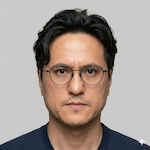
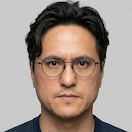
updates contents to align to new title Practical AI tools for Classroom Teaching

diff --git a/README.md b/README.md
@@ -2,7 +2,7 @@
 
 ![](./images/banner.jpg)
 
-This page is aimed to provide educators with practical GenAI skills that can be applied in their teaching activities. It covers a range of topics, including useful keyboard shortcuts, popular GenAI tools, effective prompting techniques, and managing prompts and AI responses. By mastering these skills, educators can enhance their teaching methods and provide a more engaging learning experience for their students.
+This page is aimed to provide educators with practical GenAI skills that can be applied in their teaching activities. It covers a range of topics, including useful keyboard shortcuts, popular GenAI tools, effective prompting techniques, and managing prompts and AI responses, building custome chatbot and creating agents. By mastering these skills, educators can enhance their teaching methods and provide a more engaging learning experience for their students.
 
 # Hello! My name is Sunny 🌞
 
@@ -11,7 +11,7 @@ This page is aimed to provide educators with practical GenAI skills that can be 
 [Sunny Ng](https://training.imagenation.com.hk/#sunny-ng)  
 **Founder / Master Trainer** at [Image Nation](https://training.imagenation.com.hk)  
 **Part-time Lecturer** at HKU Business School, HKU School of Chinese, HKUSPACE, EdUHK  
-**Email**: sunny.ng@imagenation.com.hk or sunnyng@eduhk.hk
+**Email**: sunny.ng@imagenation.com.hk
 
 # Useful Keyboard Shortcuts
 
@@ -33,13 +33,13 @@ It is more effective to keep multiple browser tabs open for different tools.
 To open the following AI tools in a **NEW** browser tab, hold `CTRL` (`CMD` on Mac) when clicking the links below.
 
 - [Gemini](https://gemini.google.com) - Google Gemini is a powerful, multimodal large language model developed by Google that can understand and process a wide range of information, including text, images, canvas (apps),audio, and video.
-- [Perplexity](https://www.perplexity.ai) - AI search engine that provides concise answers with sources.
 - [Microsoft Copilot](https://copilot.microsoft.com/) - Free Microsoft AI assisant.
-- [Grok](https://grok.com) - AI tool for generating text and code.
-- [Poe](https://poe.com) - Platform to access multiple AI models in one place.
 - [Qwen](https://chat.qwen.ai) - Conversational AI for various tasks
 - [Doubao](https://www.doubao.com) - Conversational AI for various tasks
 - [DeepSeek](https://www.deepseek.com) - Conversational AI for various tasks (**NOT** a multi-modal tool)
+- [Perplexity](https://www.perplexity.ai) - AI search engine that provides concise answers with sources.
+- [Grok](https://grok.com) - AI tool for generating text and code.
+- [Poe](https://poe.com) - Platform to access multiple AI models in one place.
 - [VisualGPT](https://visualgpt.io) - Photo Editor with AI / Image Generation
 - [LMArena](https://lmarena.ai) - Compare and explore different large language models.
 - [Notion AI](https://www.notion.com) - Note-taking and productivity app with AI features.
@@ -60,10 +60,16 @@ To open the following AI tools in a **NEW** browser tab, hold `CTRL` (`CMD` on M
 - [Tripoai](https://studio.tripo3d.ai) - AI-powered 3D content creation platform.
 - [ideogram](https://ideogram.ai/) - AI-powered image generation platform.
 
+# World Top GenAI Tools
+
+[World Top GenAI Tools](https://a16z.com/100-gen-ai-apps-6/)
+![](https://d1lamhf6l6yk6d.cloudfront.net/uploads/2026/03/Top-Gen-AI-Web-Top-50-List-v2.png)
+![](https://d1lamhf6l6yk6d.cloudfront.net/uploads/2026/03/Top-Gen-AI-Apps-Top-50-List.jpg)
+
 # Other Tech Tools for Teaching & Learning
 
 - [Google Sites](https://sites.google.com/) - Free website builder by Google, great for creating a class website or portfolio.
-- [DILLINGER](https://dillinger.io/) - Online Markdown playground/editor.
+- [Markdown Playground](https://training.imagenation.com.hk/markdown/index.html) - Online Markdown playground/editor.
 - [Pandoc](https://pandoc.org/index.html) - Universal document converter that can convert between various formats, including Markdown, HTML, PDF, and more.
 
 # Mastering RICE FACT Effective Prompting
@@ -246,7 +252,11 @@ generate 5 fill in the blank questions about cloud computing fundamental. specif
 ```
 
 ```
-create a case study for non-IT students to discuss the pros and cons of cloud computing. provide some angles for students to start arguing
+Create a Word document so that I can download and further edit.
+```
+
+```
+create a case study for non-IT students to discuss the pros and cons of cloud computing. provide some angles for students to start the discussion.
 ```
 
 ```
@@ -368,6 +378,24 @@ Set the scene in home studio
 
 You can also feed image as style reference and instruct Gemini to use it as target style to edit your own image in the same style.
 
+# Turn Texts into Visuals
+
+![](https://www.napkin.ai/assets/og-image-v5.png?v=2)
+
+[Napkin AI](https://napkin.ai/) is a powerful tool that allows you to turn your text-based ideas into compelling visual stories. It provides a user-friendly interface where you can input your text and generate visuals that enhance your storytelling. Whether you're creating a presentation, a report, or any other type of content, Napkin AI can help you make it more engaging and visually appealing.
+
+1.  Paste the following prompt to any AI assistant to seek for an answer on secondary math teacher assessment cycle.
+
+    ```
+    Use bullet points format to show the secondary mathematics assessment cycle for teacher.
+    ```
+
+2.  Copy the AI response and paste it to Napkin AI. You can then choose the most suitable visual template to turn the text into visuals.
+3.  You can further customize the visuals by changing the colors, fonts, and layout to better suit your needs.
+4.  Once you're satisfied with the visuals, you can download them and use them in your presentations, reports, or any other materials to enhance your communication and engagement with your audience.
+
+![](./images/napkin-demo.png)
+
 # Speech Synthesis
 
 ![](https://www.narakeet.com/assets/howto/20230403-tts-announcements-poster-x304.png)
@@ -393,7 +421,7 @@ Gemini's canvas feature allows you to create interactive content such as quizzes
 
 **Vibe Coding**
 
-Canvas output form are actually self-contained mini web applications, which means you can easily share them with your students by providing a link. This makes it convenient for remote learning or for students to access the content on their own devices. If you can handle programming, you can even customize the canvas output further to suit your specific teaching needs. Of course vibe coding is mature enough and will offer you more flexibility and possibilities to create more advanced interactive content.
+Canvas output format is actually self-contained mini web applications, which means you can easily share them with your students by providing a link. This makes it convenient for remote learning or for students to access the content on their own devices. If you can handle programming, you can even customize the canvas output further to suit your specific teaching needs. Of course vibe coding is mature enough and will offer you more flexibility and possibilities to create more advanced interactive content.
 
 ---
 
@@ -474,12 +502,44 @@ Use the above prompt in Gemini to create your own canvas or click the link below
 
 ---
 
+# Custom Chatbot
+
+Gemini Gems is a platform that allows you to create custom AI assistants tailored to your specific needs. With Gemini Gems, you can design and build your own AI assistant by defining its capabilities, personality, and interactions. This tool is particularly useful for educators, businesses, and individuals who want to create a personalized AI assistant that can help with tasks such as answering questions, providing recommendations, or assisting with specific workflows.
+
+![](https://images.ctfassets.net/lzny33ho1g45/2yvPXm6SrVRaCUby42XATS/16423809586ee068944c34623d7f78fe/gemini-gems-image01.png)
+
+# AI Agents & Agentic AI
+
+AI agents are autonomous software programs that can perform tasks or make decisions on behalf of users. They are designed to interact with their environment, gather information, and take actions based on predefined rules or learned behaviors. AI agents can be used in various applications, such as virtual assistants, customer service bots, and recommendation systems.
+
+Agentic AI refers to multiple AI agents that are designed to interact with their environment, learn from it, and adapt their behavior based on the information they receive. Agentic AI operates independently and makes informed decisions without constant human intervention.
+
+## Gemini Spark
+
+**Gemini Spark** is a platform that allows you to create and manage AI agents. With Gemini Spark, you can design agents that can perform specific tasks, interact with users, and learn from their experiences. This tool is particularly useful for businesses and developers who want to build intelligent systems that can automate processes, provide personalized experiences, or assist with complex decision-making.
+
+![](https://lh3.googleusercontent.com/zdeJtOTXpnfHHqrTU5gmS3z2gfF87KouBdsjTdCK3mLPkI6JkPBIKk9kcKuiGv_5KjG8dCeQzYMw029rVLZDUUSu_7kQoPLU9Yw=e365-pa-nu-s0)
+
+## Gemini Notebook
+
+Gemini Notebook is a feature that allows you to create and manage your own custom knowledge base for your chatbot or agent. You can upload documents, PDFs, or other resources that contain relevant information, and the chatbot will be able to access this knowledge when interacting with students.
+![](https://lh3.googleusercontent.com/vosTePSCiNmy81qVHV-vTm39Heoqcgwy7Q0DR56g4iG9JLv3dfiUdiWvAWLOApxoi8nsM5z3Pq5FB-nHJuZ0D8W7NjdnHOQyYAJfwQ=e365-pa-nu-rw-w528)
+
+# Interacting with Gemini Google Workspace Extensions
+
+Google Workspace Extensions are AI-powered tools that integrate with Google Workspace applications like Gmail, Docs, Sheets, and Slides to enhance productivity and streamline workflows.
+
+When you type the `@` symbol in the Gemini chat box, it brings up a quick-menu of available extensions.
+This allows you to pull real-time information directly from your other Google apps into your conversation.
+
+![](./images/gemini-google-workspace-exts.png)
+
 # Photo / Video / Icon Libraries
 
 Images/Video generation tools are slow and expensive. Sometimes, it is more efficient to use free stock photo/video/icon libraries.
 
 - [Unsplash](https://unsplash.com) - Free high-quality photos.
 - [Pexels](https://www.pexels.com) - Free stock photos and videos.
-- [Freepik](https://www.freepik.com) - Free vectors, stock photos, PSD, and icons.
+- [Magnific](https://www.magnific.com/app) - Free vectors, stock photos, PSD, and icons.
 - [Icons8](https://icons8.com) - Free icons and images.
 - [Flaticon](https://www.flaticon.com) - Free icons in various formats.
